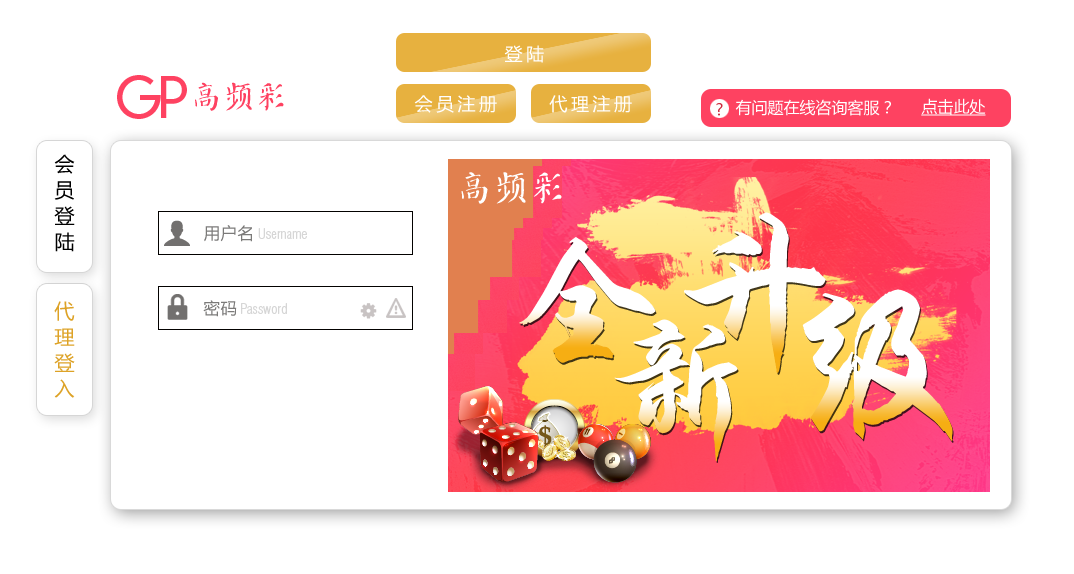
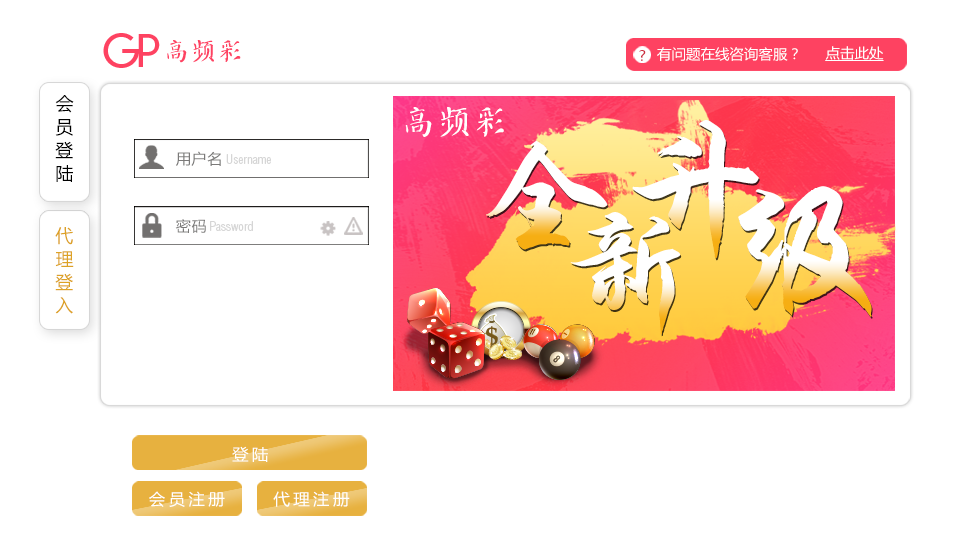
remove the cashier add customer system todo:register

diff --git a/public/css/gaopin.css b/public/css/gaopin.css
@@ -292,9 +292,9 @@
 
 .gp_login_back {
     border: none;
-    background: url('gplogin.png') no-repeat scroll -34px -137px  transparent;
-    width: 990px;
-    height: 385px;
+    background: url('gplogin.png') no-repeat scroll -37px -81px  transparent;
+    width: 877px;
+    height: 325px;
     display: inline-block;
     position: fixed;
     min-width: 1020px;
@@ -302,22 +302,22 @@
 }
 .gp_btnlogin {
     border: none;
-    background: url('gplogin.png') no-repeat scroll -394px -32px transparent;
-    width: 259px;
+    background: url('gplogin.png') no-repeat scroll -131px -434px transparent;
+    width: 240px;
     height: 42px;
 }
 
 .gp_btnreg {
     border: none;
-    background: url('gplogin.png') no-repeat scroll -394px -81px transparent;
-    width: 130px;
+    background: url('gplogin.png') no-repeat scroll -131px -479px transparent;
+    width: 120px;
     height: 42px;
 }
 
 .gp_btndreg {
     border: none;
-    background: url('gplogin.png') no-repeat scroll -531px -81px transparent;
-    width: 130px;
+    background: url('gplogin.png') no-repeat scroll -255px -479px transparent;
+    width: 120px;
     height: 42px;
 }
 
@@ -325,17 +325,18 @@
 .gp_title {
     border: none;
     display: inline-block;
-    background: url('gplogin.png') no-repeat scroll -111px -68px transparent;
-    width: 180px;
-    height: 52px;
+    background: url('gplogin.png') no-repeat scroll -104px -29px transparent;
+    width: 136px;
+    height: 44px;
     margin-bottom: 0px;
+    margin-left: 60px;
 }
 .gp_question {
-    margin-left: 400px;
+    margin-left: 350px;
     display: inline-block;
     border: none;
-    background: url('gplogin.png') no-repeat scroll -698px -78px transparent;
-    width: 320px;
-    height: 52px;
+    background: url('gplogin.png') no-repeat scroll -625px -29px transparent;
+    width: 282px;
+    height: 44px;
     margin-bottom: 0px;
 }

diff --git a/resources/views/gplogin.blade.php b/resources/views/gplogin.blade.php
@@ -24,19 +24,19 @@
                 <div style="background-color: transparent;position: absolute;width: 53px;height: 130px;margin-top: 150px"></div>
             </a>
             {!! Form::open(['url' => '/login', 'class' => 'form-horizontal', 'role' => 'form']) !!}
-            <div class="form-group" style="padding-top: 80px">
-                <div style="padding-left: 175px">
-                    <input class="form-control" required="required" name="name" type="text" style="width: 215px">
+            <div class="form-group" style="padding-top: 60px">
+                <div style="padding-left: 150px">
+                    <input class="form-control" required="required" name="name" type="text" style="width: 190px">
                 </div>
             </div>
-            <div class="form-group" style="padding-top: 25px">
-                <div style="padding-left: 175px">
+            <div class="form-group" style="padding-top: 20px">
+                <div style="padding-left: 150px">
                     <input class="form-control" required="required" name="password" type="password" value=""
-                           style="width: 215px">
+                           style="width: 190px">
                 </div>
             </div>
             <div class="form-group" style="padding-top: 30px">
-                <div style="padding-left: 138px">
+                <div style="padding-left: 110px">
                     {!! Form::submit('', ['class' => 'gp_btnlogin']) !!}
                     <br>
                     <a href="{{ url('/register') }}">
